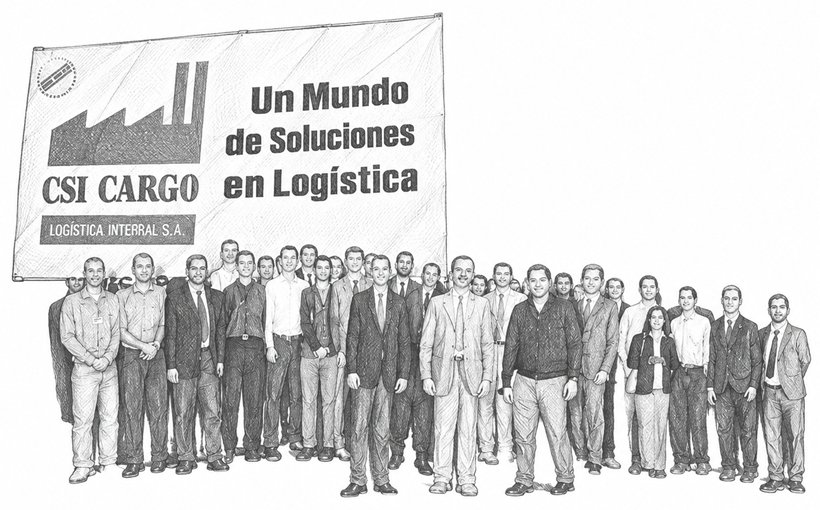
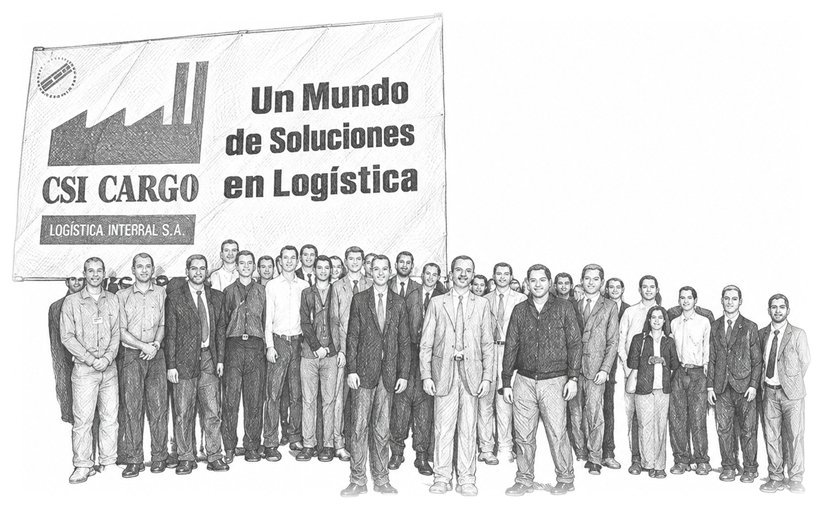
Linea de tiempo: bordes de las ilustraciones esfumados a blanco (sin lineas rectas)

diff --git a/CLAUDE.md b/CLAUDE.md
@@ -90,7 +90,7 @@ Es una diapositiva larga con scroll (`desplazamiento.js`). Tiene una capa fija (
    - Años en Oswald 114 px (activo) o al 60% y opacidad 33% (resto), con `letter-spacing -.04em`. Posiciones: 121 + i·1358/(n−1).
    - Marcador: el punto rojo se apaga y el blanco se achica a 34 px → se desliza → crece y vuelve el rojo (WAAPI, se puede interrumpir). El tallo nace en el centro del círculo y va detrás (primero en el DOM), así nunca se ve cortado.
    - Avance automático cada `segundosPorAnio` (12 s) si nadie la toca mientras está en pantalla; mover el mouse, clic o flechas reinicia la cuenta.
-   - Imagen del año: **ilustraciones a lápiz de la persona** (`ilustracion` en los datos, `img/linea-de-tiempo/<año>-<tema>.jpg`). Se prepararon desde sus PNG (camión y grupo venían girados 90°): enderezadas, recortado el blanco de sobra, negro llevado a #3A3A3A con ColorMatrix (System.Drawing), máx. 820 × 540, JPG 86. Se muestran con `mix-blend-mode: multiply` sobre el crema, **sin el bloque rojo** (`.grabado-fondo` oculto, pedido de la persona); como las animaciones del año aíslan la mezcla, `.hito-foto.con-ilustracion` lleva fondo crema propio (caja 420 × 258 en x 20). La del 2000 (`2000-deposito.jpg`, "Bodega industrial en perspectiva profunda") venía a sangre y girada: se le recortó el techo (apaisada 1,45) y se le pintó un fundido elíptico a blanco en los bordes (PathGradientBrush) para que no tenga bordes rectos. Sin `ilustracion` quedan los grabados SVG (`grabados.js`) o `foto` con el filtro `#gr-foto`.
+   - Imagen del año: **ilustraciones a lápiz de la persona** (`ilustracion` en los datos, `img/linea-de-tiempo/<año>-<tema>.jpg`). Se prepararon desde sus PNG (camión y grupo venían girados 90°): enderezadas, recortado el blanco de sobra, negro llevado a #3A3A3A con ColorMatrix (System.Drawing), máx. 820 × 540, JPG 86. Se muestran con `mix-blend-mode: multiply` sobre el crema, **sin el bloque rojo** (`.grabado-fondo` oculto, pedido de la persona); como las animaciones del año aíslan la mezcla, `.hito-foto.con-ilustracion` lleva fondo crema propio (caja 420 × 258 en x 20). La del 2000 (`2000-deposito.jpg`, "Bodega industrial en perspectiva profunda") venía a sangre y girada: se le recortó el techo (apaisada 1,45) y se le pintó un fundido elíptico suave (PathGradientBrush) y encima un fundido a blanco en los cuatro bordes (LinearGradientBrush, 14 % del lado corto). **Todas** las ilustraciones tienen que terminar en blanco puro en el borde (si no, el multiplicar deja una línea recta sobre el crema): a las demás se les aplicó el mismo fundido de bordes al 7 %. Verificación: el píxel más oscuro de los 2 px del borde ≥ 250. Sin `ilustracion` quedan los grabados SVG (`grabados.js`) o `foto` con el filtro `#gr-foto`.
 4. **Números y mapa**:
    - Los números cuentan animados.
    - El mapa usa contornos reales **estilizados** (`mapa-sudamerica.js`, Natural Earth 50m, generado con `herramientas/extraer-sudamerica.ps1 -Tolerancia 0.3 -AreaMinima 1.5`).
